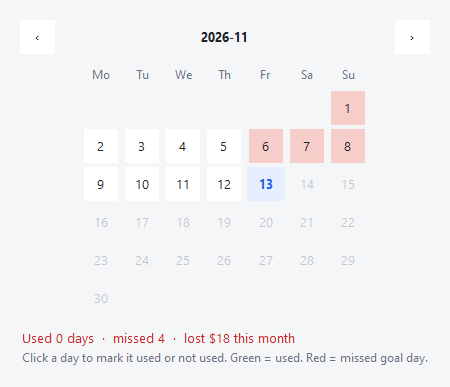
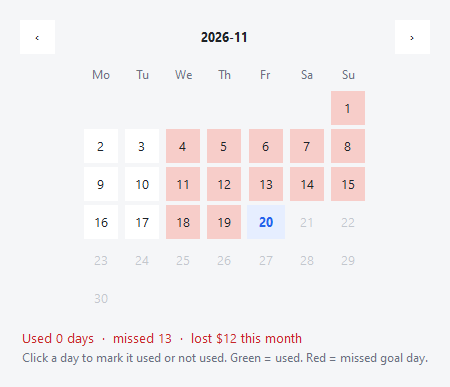
Rename the app from StallMeter to IdleTax
The name StallMeter was a placeholder. The user chose IdleTax after a
search found no app, company, domain or repository using it.

- Code, build, docs and tools use the new name; the exe is IdleTax.exe
  and the data file is idletax-data.json.
- core.data_path moves an old stallmeter-data.json next to the exe, or an
  old %APPDATA%\StallMeter folder, to the new name on first start. An
  existing new file is never overwritten. Two tests cover this.
- The mobile prototype moves its old localStorage keys once on start.
- README screenshots retaken from the built exe (main, empty) and from a
  source run (calendar), English UI, app window only.

Verified: test_core.py 56 tests OK; build.bat exit 0 with "Smoke test
passed"; check_project 0 FAIL. Ran dist\IdleTax.exe in an empty folder
with an old stallmeter-data.json: the file became idletax-data.json with
the same content, the window title is IdleTax and the items show.
Republished the mobile prototype and saw the old browser data (sample,
checks, a test item, settings) carried over to the new key.

Changed region(s): [[0.28, 0.3101, 0.8089, 0.6202], [0.3422, 0.8372, 0.6844, 0.8992], [0.2178, 0.5581, 0.2489, 0.5891]]

diff --git a/tools/mobile_proto/page.html b/tools/mobile_proto/page.html
@@ -1,10 +1,10 @@
-<title>StallMeter Mobile</title>
+<title>IdleTax Mobile</title>
 <meta name="claude:viewport-fit-sides" content="cover">
 <link rel="preconnect" href="https://fonts.googleapis.com">
 <link rel="stylesheet" href="https://fonts.googleapis.com/css2?family=Noto+Sans+KR:wght@400;500;700&display=swap">
 <style>
-/* Layout: one phone-width app column (max 430px) with a fixed bottom menu, like the Figma "StallMeter Mobile" screens.
-   Colors are the Figma variable collection "StallMeter" (light) plus a matching dark set. */
+/* Layout: one phone-width app column (max 430px) with a fixed bottom menu, like the Figma mobile screens.
+   Colors are the Figma color variables (light) plus a matching dark set. */
 :root {
   --bg: #F5F6F8; --surface: #FFFFFF; --surface-muted: #EEF0F3;
   --text: #1F2328; --text-muted: #6B7280; --text-faint: #A3A8AF; --border: #E3E6EA;
@@ -177,7 +177,7 @@ details p { font-size: 13px; color: var(--text-muted); margin: 8px 0 0; }
 </style>
 
 <div class="app" id="app"><div class="loading" id="loading">
-  <h1>StallMeter</h1>
+  <h1>IdleTax</h1>
   <p class="muted" id="load-text">앱 엔진(core.py)을 불러오는 중입니다. 처음에는 13MB쯤 받습니다.</p>
   <div class="bar blue"><i id="load-bar" style="width:10%"></i></div>
 </div></div>
@@ -193,12 +193,23 @@ details p { font-size: 13px; color: var(--text-muted); margin: 8px 0 0; }
 <script src="pyodide/pyodide.js"></script>
 <script>
 "use strict";
-const KEY = "stallmeter-mobile-proto";
-const PATH = "/home/pyodide/stallmeter-data.json";
+const KEY = "idletax-mobile-proto";
+const OLD_KEY = "stallmeter-mobile-proto"; // the app's earlier name; moved over once on start
+const PATH = "/home/pyodide/idletax-data.json";
 const FIGMA_NOW = "2026-11-19T12:00:00";
 const WD = ["월", "화", "수", "목", "금", "토", "일"];
 const $ = (s, el = document) => el.querySelector(s);
 const esc = s => String(s).replace(/[&<>"']/g, c => ({ "&": "&amp;", "<": "&lt;", ">": "&gt;", '"': "&quot;", "'": "&#39;" }[c]));
+function adoptOldKeys() {
+  try {
+    for (const suffix of ["", ":notify", ":clock"]) {
+      const old = localStorage.getItem(OLD_KEY + suffix);
+      if (old !== null && localStorage.getItem(KEY + suffix) === null) localStorage.setItem(KEY + suffix, old);
+      if (old !== null) localStorage.removeItem(OLD_KEY + suffix);
+    }
+  } catch {}
+}
+adoptOldKeys();
 const prefs = { get(k, d) { try { const v = localStorage.getItem(KEY + ":" + k); return v === null ? d : JSON.parse(v); } catch { return d; } },
   set(k, v) { try { localStorage.setItem(KEY + ":" + k, JSON.stringify(v)); } catch {} } };
 
@@ -271,7 +282,7 @@ function render() {
 /* ---------- 홈 ---------- */
 function viewHome() {
   const h = call("home", nowIso(), ui.tab, ui.closed);
-  if (h.empty) return `<header><h1>StallMeter</h1><p class="sub">미루고, 돈 내고 안 써서 잃는 돈</p></header>
+  if (h.empty) return `<header><h1>IdleTax</h1><p class="sub">미루고, 돈 내고 안 써서 잃는 돈</p></header>
     <div class="empty card"><h2>아직 항목이 없습니다</h2>
       <p>돈을 내고 있는 것을 추가하거나, 샘플을 불러와서 어떻게 동작하는지 보세요.\n샘플은 한 번 눌러서 다시 지울 수 있습니다.</p>
       <button class="btn primary" id="add-first">+ 구독 추가</button><button class="btn ghost" id="sample">샘플 불러오기</button></div>`;
@@ -281,7 +292,7 @@ function viewHome() {
       <span class="badge">${esc(r.initial)}</span>
       <span class="grow"><span class="t" style="display:block">${esc(r.title)}</span><span class="m" style="display:block">${esc(r.tab)} · ${esc(r.price)}${r.open ? "" : " · 종료"}</span></span>
       <span class="v num"><b>${r.year}</b><span class="w">${r.wasted ? "미사용 " + r.wasted : ""}</span></span></button>`).join("");
-  return `<header><h1>StallMeter</h1><p class="sub">미루고, 돈 내고 안 써서 잃는 돈</p></header>
+  return `<header><h1>IdleTax</h1><p class="sub">미루고, 돈 내고 안 써서 잃는 돈</p></header>
     ${h.sample ? `<div class="banner"><span class="grow">샘플 데이터입니다. 직접 넣은 항목은 건드리지 않습니다.</span><button class="link" id="clear">지우기</button></div>` : ""}
     <div class="tiles">${tile("week", "이번 주")}${tile("month", "이번 달")}${tile("year", "올해", true)}${tile("total", "전체 기간")}</div>
     <div class="chips" role="group" aria-label="탭">${["", ...h.tabs].map(t => `<button class="chip" data-tab="${esc(t)}" aria-pressed="${t === ui.tab}">${t ? esc(t) : "전체"}</button>`).join("")}</div>
@@ -401,7 +412,7 @@ function viewSettings() {
     <h3>데이터</h3><div class="list">
       ${h.sample ? `<button class="srow danger" id="s-clear">샘플 지우기</button>` : `<button class="srow" id="s-load">샘플 불러오기</button>`}
       <button class="srow danger" id="s-reset">모든 데이터 지우기</button></div>
-    <p class="small muted" style="margin:4px 4px 0">데이터는 이 브라우저에만 저장됩니다. 형식은 데스크톱 앱의 stallmeter-data.json과 같습니다.</p>
+    <p class="small muted" style="margin:4px 4px 0">데이터는 이 브라우저에만 저장됩니다. 형식은 데스크톱 앱의 idletax-data.json과 같습니다.</p>
     <h3>정보</h3><div class="list">
       <div class="srow"><span class="grow">계산 엔진</span><span class="muted small num">core.py ${esc(about.version)} · Python ${esc(about.python)}</span></div>
       <div class="srow"><span class="grow">통화</span><span class="muted">${esc(about.currency)}</span></div>

diff --git a/core.py b/core.py
@@ -1,4 +1,4 @@
-"""StallMeter logic. No GUI imports; standard library only.
+"""IdleTax logic. No GUI imports; standard library only.
 
 Two kinds of item lose money while nothing happens:
 
@@ -15,8 +15,11 @@ import json
 import os
 from datetime import date, datetime, time, timedelta
 
-DATA_FILE = "stallmeter-data.json"
-APP_NAME = "StallMeter"
+DATA_FILE = "idletax-data.json"
+APP_NAME = "IdleTax"
+# The app was called StallMeter until 2026-11-20. Its data file and %APPDATA% folder are renamed on first start.
+LEGACY_DATA_FILE = "stallmeter-data.json"
+LEGACY_APP_NAME = "StallMeter"
 VERSION = "0.3.0"
 ZERO_DECIMAL_CURRENCIES = ("\u20a9", "\uc6d0", "\u00a5", "KRW", "JPY")
 # monthly:     a price every month, until cancelled
@@ -521,16 +524,35 @@ def delete(data, item_id):
     data["items"].remove(find(data, item_id))
 
 
-def data_path():
-    """Next to the exe (or this file). If that folder is read-only, %APPDATA%\\StallMeter."""
+def _in_folder(folder):
+    """The data file in `folder`. A file left there under the app's earlier name is renamed first."""
+    path = os.path.join(folder, DATA_FILE)
+    legacy = os.path.join(folder, LEGACY_DATA_FILE)
+    if not os.path.exists(path) and os.path.exists(legacy):
+        try:
+            os.replace(legacy, path)
+        except OSError:
+            return legacy
+    return path
+
+
+def data_path(base=None, appdata=None):
+    """Next to the exe (or this file). If that folder is read-only, %APPDATA%\\IdleTax."""
     import sys
-    base = os.path.dirname(sys.executable if getattr(sys, "frozen", False) else os.path.abspath(__file__))
-    path = os.path.join(base, DATA_FILE)
+    if base is None:
+        base = os.path.dirname(sys.executable if getattr(sys, "frozen", False) else os.path.abspath(__file__))
+    path = _in_folder(base)
     if os.access(path, os.W_OK) or (not os.path.exists(path) and os.access(base, os.W_OK)):
         return path
-    alt = os.path.join(os.environ.get("APPDATA", base), APP_NAME)
+    root = appdata or os.environ.get("APPDATA", base)
+    alt, legacy = os.path.join(root, APP_NAME), os.path.join(root, LEGACY_APP_NAME)
+    if not os.path.exists(alt) and os.path.isdir(legacy):
+        try:
+            os.replace(legacy, alt)
+        except OSError:
+            alt = legacy
     os.makedirs(alt, exist_ok=True)
-    return os.path.join(alt, DATA_FILE)
+    return _in_folder(alt)
 
 
 def _check_shape(data):

diff --git a/i18n.py b/i18n.py
@@ -4,7 +4,7 @@ LANGS = ("en", "ko")
 
 STRINGS = {
     "en": {
-        "app_title": "StallMeter",
+        "app_title": "IdleTax",
         "tagline": "What you lose by waiting and by not using what you pay for",
         "tab_all": "All",
         "btn_new_sub": "+ Subscription",
@@ -136,7 +136,7 @@ STRINGS = {
         "shortcuts": "Ctrl+N subscription  ·  Ctrl+Shift+N decision  ·  Ctrl+T tab  ·  Enter edit  ·  Ctrl+K calendar  ·  "
                      "Ctrl+U used today  ·  Ctrl+D end  ·  Del delete  ·  Ctrl+E report  ·  Ctrl+L language",
         "r_title": "Loss report",
-        "r_generated": "Generated {date} by StallMeter.",
+        "r_generated": "Generated {date} by IdleTax.",
         "r_week": "Lost this week: {cost}",
         "r_month": "Lost this month: {cost}",
         "r_year": "Lost this year: {cost}",
@@ -152,7 +152,7 @@ STRINGS = {
                      "stays open. All inputs are your own entries.",
     },
     "ko": {
-        "app_title": "StallMeter",
+        "app_title": "IdleTax",
         "tagline": "미루고, 돈 내고 안 써서 잃는 돈",
         "tab_all": "전체",
         "btn_new_sub": "+ 구독",
@@ -282,7 +282,7 @@ STRINGS = {
         "shortcuts": "Ctrl+N 구독  ·  Ctrl+Shift+N 미결 사항  ·  Ctrl+T 탭  ·  Enter 수정  ·  Ctrl+K 달력  ·  "
                      "Ctrl+U 오늘 사용함  ·  Ctrl+D 종료  ·  Del 삭제  ·  Ctrl+E 보고서  ·  Ctrl+L 언어",
         "r_title": "손실 보고서",
-        "r_generated": "{date} StallMeter로 작성.",
+        "r_generated": "{date} IdleTax로 작성.",
         "r_week": "이번 주 손실: {cost}",
         "r_month": "이번 달 손실: {cost}",
         "r_year": "올해 손실: {cost}",

diff --git a/test_core.py b/test_core.py
@@ -401,6 +401,28 @@ class StorageTests(unittest.TestCase):
                 self.assertFalse(os.path.exists(path))
 
 
+    def test_data_file_from_the_old_name_is_kept(self):
+        # the app was called StallMeter; an update must not leave the user's data behind
+        with tempfile.TemporaryDirectory() as folder:
+            data = core.new_data()
+            core.add_sub(data, sub(title="old name"))
+            core.save(os.path.join(folder, core.LEGACY_DATA_FILE), data)
+            path = core.data_path(folder)
+            self.assertEqual(path, os.path.join(folder, core.DATA_FILE))
+            self.assertEqual(os.listdir(folder), [core.DATA_FILE])
+            self.assertEqual(core.load(path)[0]["items"][0]["title"], "old name")
+
+    def test_old_name_file_does_not_replace_a_current_one(self):
+        with tempfile.TemporaryDirectory() as folder:
+            for name, title in ((core.DATA_FILE, "current"), (core.LEGACY_DATA_FILE, "old")):
+                data = core.new_data()
+                core.add_sub(data, sub(title=title))
+                core.save(os.path.join(folder, name), data)
+            path = core.data_path(folder)
+            self.assertEqual(core.load(path)[0]["items"][0]["title"], "current")
+            self.assertTrue(os.path.exists(os.path.join(folder, core.LEGACY_DATA_FILE)))
+
+
 class ExportTests(unittest.TestCase):
     def setUp(self):
         self.data = core.new_data()

diff --git a/app.py b/app.py
@@ -1,4 +1,4 @@
-"""StallMeter window. All logic lives in core.py; all text lives in i18n.py."""
+"""IdleTax window. All logic lives in core.py; all text lives in i18n.py."""
 
 import calendar
 import os
@@ -752,12 +752,12 @@ class App:
     def export_report(self):
         now = datetime.now()
         text = core.report_markdown(self.data, now, self.t, self.tab_category)
-        self.export(text, f"stallmeter-report-{now:%Y-%m-%d}.md", ".md", "utf-8")
+        self.export(text, f"idletax-report-{now:%Y-%m-%d}.md", ".md", "utf-8")
 
     def export_csv(self):
         now = datetime.now()
         # utf-8-sig so Excel opens Korean text correctly
-        self.export(core.export_csv(self.data, now), f"stallmeter-{now:%Y-%m-%d}.csv", ".csv", "utf-8-sig")
+        self.export(core.export_csv(self.data, now), f"idletax-{now:%Y-%m-%d}.csv", ".csv", "utf-8-sig")
 
 
 def smoke(folder):

diff --git a/tools/mobile_proto/bridge.py b/tools/mobile_proto/bridge.py
@@ -1,4 +1,4 @@
-"""Glue between the mobile prototype page and StallMeter's own engine (core.py, i18n.py), run in Pyodide.
+"""Glue between the mobile prototype page and IdleTax's own engine (core.py, i18n.py), run in Pyodide.
 
 Every number the page shows comes from a core.py function called here; this file only picks and formats them.
 Data lives in the same JSON format as the desktop app (core.load / core.save) at PATH in Pyodide's file system;
@@ -12,7 +12,7 @@ from datetime import date, datetime, timedelta
 import core
 import i18n
 
-PATH = "/home/pyodide/stallmeter-data.json"
+PATH = "/home/pyodide/idletax-data.json"
 LANG = "ko"
 t = i18n.translator(LANG)
 DATA = core.new_data()

diff --git a/tools/figma_mobile_numbers.py b/tools/figma_mobile_numbers.py
@@ -1,7 +1,7 @@
-"""Computes every number shown in the Figma mobile mock with StallMeter's own core.py.
+"""Computes every number shown in the Figma mobile mock with IdleTax's own core.py.
 
 The mock shows the Korean sample's subscriptions on Thursday 2026-11-19 at noon.
-Usage: python -X utf8 mobile_numbers.py <stallmeter folder> <out.json>
+Usage: python -X utf8 mobile_numbers.py <idletax folder> <out.json>
 """
 import json
 import sys

diff --git a/tools/build_mobile_proto.py b/tools/build_mobile_proto.py
@@ -1,4 +1,4 @@
-"""Assembles the mobile prototype: the page, StallMeter's engine files and a Pyodide runtime in one folder.
+"""Assembles the mobile prototype: the page, IdleTax's engine files and a Pyodide runtime in one folder.
 
 Usage: python -X utf8 tools/build_mobile_proto.py <pyodide package folder> [out folder]
   <pyodide package folder>  the unpacked npm package pyodide@0.26.4 (the folder with pyodide.asm.wasm)

diff --git a/CLAUDE.md b/CLAUDE.md
@@ -1,4 +1,4 @@
-# StallMeter
+# IdleTax
 
 이 프로젝트는 `small-app-harness` 스킬의 공통 규칙을 따른다. 아래는 이 프로젝트에만 해당하는 내용이다.
 개인 정보(계정, 로컬 경로)는 `CLAUDE.local.md`, 진행 상태는 `PROGRESS.md`에 있다 (둘 다 gitignore).
@@ -15,7 +15,7 @@
 |---|---|
 | 테스트 | `.venv\Scripts\python.exe -X utf8 test_core.py` |
 | 소스로 실행 | `.venv\Scripts\python.exe app.py` |
-| 빌드 (테스트 포함) | `build.bat` → `dist\StallMeter.exe` |
+| 빌드 (테스트 포함) | `build.bat` → `dist\IdleTax.exe` |
 | 샘플 데이터 | `python -X utf8 tools\make_sample.py <폴더> [en\|ko]` |
 | 모바일 화면 프로토타입 | `python -X utf8 tools\build_mobile_proto.py <pyodide@0.26.4 npm 패키지 폴더>` → `build\mobile-proto\` (`page.html`은 Artifact용, `index.html`은 로컬 서버용) |
 
@@ -24,7 +24,8 @@
 
 ## 데이터
 
-- 사용자 데이터: `stallmeter-data.json` (exe 옆, gitignore). 버전 3. 버전 1·2 파일은 불러올 때 올린다.
+- 사용자 데이터: `idletax-data.json` (exe 옆, gitignore). 버전 3. 버전 1·2 파일은 불러올 때 올린다.
+- 앱 이름이 2026-11-20에 StallMeter에서 IdleTax로 바뀌었다. 옛 `stallmeter-data.json`과 `%APPDATA%\StallMeter`는 처음 켤 때 새 이름으로 옮긴다(`core.data_path`, 테스트가 확인). 모바일 프로토타입은 옛 localStorage 키를 옮긴다.
 - 항목은 `kind`가 `sub`(구독) 또는 `decision`(미결 사항)이다. 탭 목록은 `categories`에 따로 저장하고(빈 탭 가능), 항목의 `category`가 그 탭 이름이다.
 - 구독의 `billing`은 `monthly`, `yearly`, `prepaid`, `installment` 넷이다. `installment`만 `months`(할부 개월 수)를 쓴다.
 - 샘플 항목은 `sample: true`로 표시한다. 샘플 내용은 `i18n.SAMPLE`에 있고 `core.load_sample` / `clear_sample`이 넣고 뺀다.

diff --git a/README.md b/README.md
@@ -1,17 +1,17 @@
 **English** | [한국어](README.ko.md)
 
-# StallMeter
+# IdleTax
 
 Shows, in money, what you lose by not using what you pay for and by putting decisions off.
 
-![StallMeter main window](doc/images/main.png)
+![IdleTax main window](doc/images/main.png)
 
 ## Why I made this
 
 Getting rich quickly is hard. Losing less is something you can start today, but the loss is hard to see:
 a gym membership you stopped going to, a second AI plan you rarely open, a decision a team has waited on for weeks.
 None of these sends a bill for "money wasted".
-StallMeter turns each one into a number per week, month and year, so you can tell what to cancel and what to settle first.
+IdleTax turns each one into a number per week, month and year, so you can tell what to cancel and what to settle first.
 
 ## Features
 
@@ -29,7 +29,7 @@ StallMeter turns each one into a number per week, month and year, so you can tel
 
 ## Install
 
-There is no public release yet. Build it from source (below), then copy `dist\StallMeter.exe` anywhere and run it.
+There is no public release yet. Build it from source (below), then copy `dist\IdleTax.exe` anywhere and run it.
 The exe is not code-signed, so Windows SmartScreen may warn on first run: choose "More info" and then "Run anyway".
 
 ## Build from source
@@ -42,7 +42,7 @@ uv pip install --python .venv\Scripts\python.exe pyinstaller
 build.bat
 ```
 
-`build.bat` runs the unit tests, builds `dist\StallMeter.exe`, and runs the built exe once as a smoke test. It stops if any step fails.
+`build.bat` runs the unit tests, builds `dist\IdleTax.exe`, and runs the built exe once as a smoke test. It stops if any step fails.
 
 ## Usage
 

diff --git a/THIRD-PARTY-NOTICES.md b/THIRD-PARTY-NOTICES.md
@@ -1,6 +1,6 @@
 # Third-party notices
 
-StallMeter's own code uses only the Python standard library. `dist\StallMeter.exe` is built with PyInstaller and
+IdleTax's own code uses only the Python standard library. `dist\IdleTax.exe` is built with PyInstaller and
 therefore bundles the following third-party software.
 
 | Component | What it is | License |
@@ -17,12 +17,12 @@ If `build.bat` stops excluding one of these, add its license here.
 
 ## Mobile prototype (`tools/build_mobile_proto.py`)
 
-The mobile screen prototype is not part of `StallMeter.exe`. Its build folder, and a page published from it,
+The mobile screen prototype is not part of `IdleTax.exe`. Its build folder, and a page published from it,
 contain these unmodified files from the npm package `pyodide@0.26.4`: `pyodide.js`, `pyodide.asm.js`,
 `pyodide.asm.wasm`, `pyodide-lock.json` and `python_stdlib.zip` (stored as base64 text).
 
 | Component | What it is | License |
 |---|---|---|
-| Pyodide 0.26.4 | Runs Python (and StallMeter's `core.py`) in the browser | Mozilla Public License 2.0 — https://github.com/pyodide/pyodide/blob/0.26.4/LICENSE (the npm `package.json` declares Apache-2.0) |
+| Pyodide 0.26.4 | Runs Python (and IdleTax's `core.py`) in the browser | Mozilla Public License 2.0 — https://github.com/pyodide/pyodide/blob/0.26.4/LICENSE (the npm `package.json` declares Apache-2.0) |
 | CPython 3.12 and its standard library, compiled into Pyodide | The Python interpreter | Python Software Foundation License Version 2 — https://docs.python.org/3/license.html |
 | Noto Sans KR (loaded from Google Fonts, not bundled) | Font | SIL Open Font License 1.1 |
